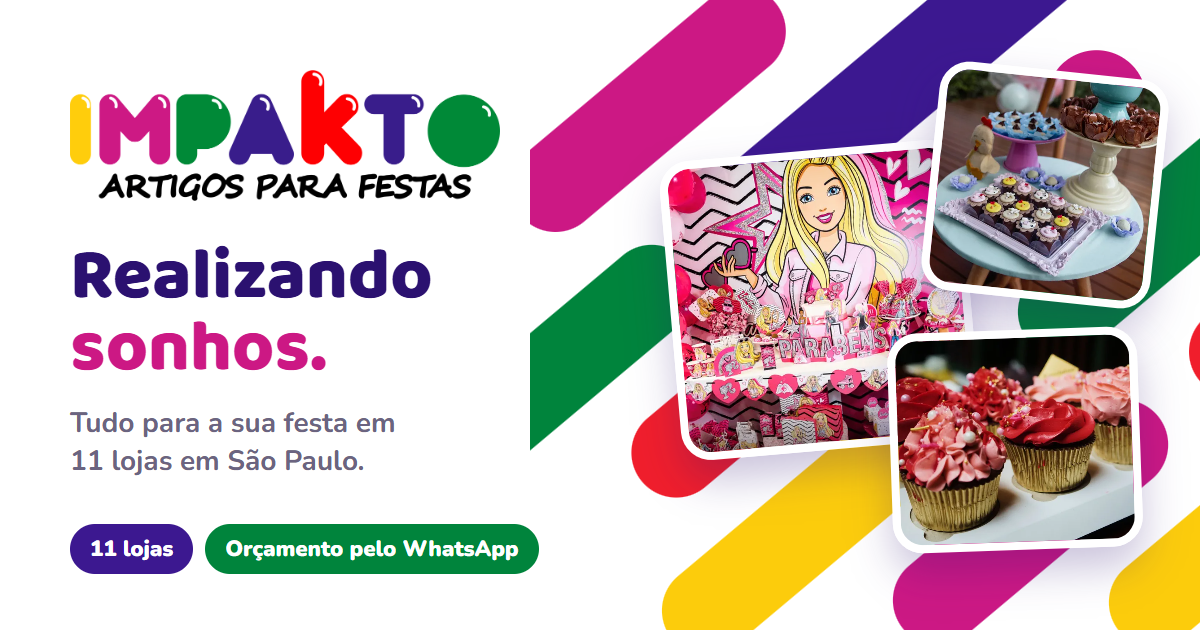
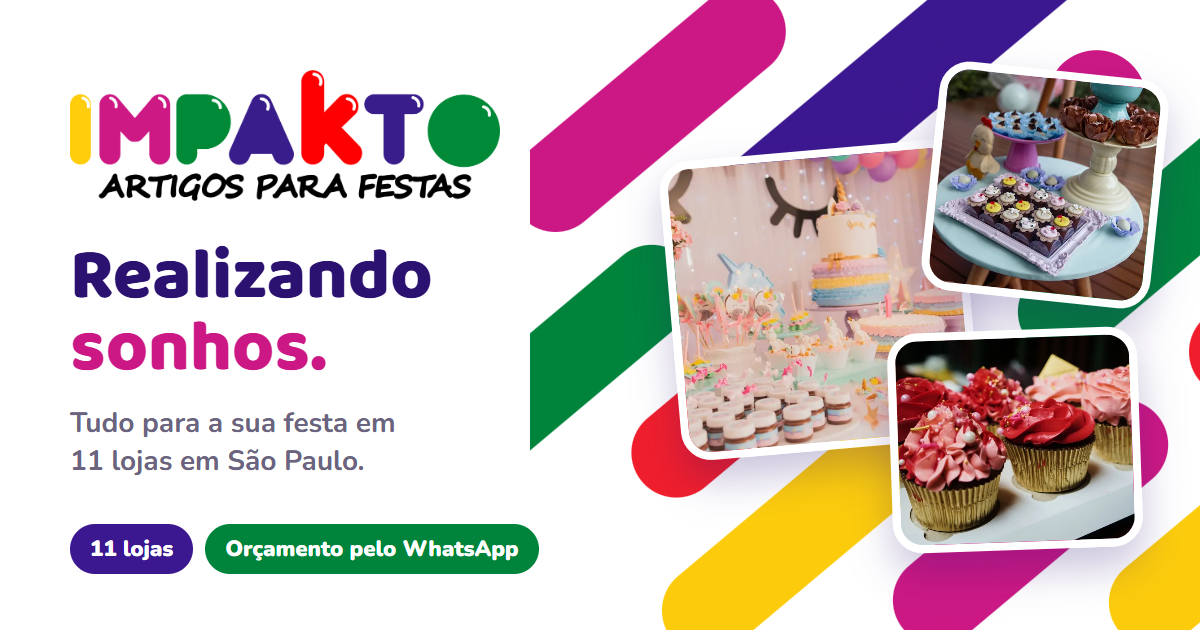
Replace the boys' and girls' theme photos taken from the old site
The Hot Wheels and Barbie tables came from the old site and show
trademarked characters. They are replaced with Pexels photos (free for
commercial use): a safari dessert table by Vidal Balielo Jr., cropped
to leave out a sign with a child's name, and a unicorn table by Silvia
Trigo, which also becomes the main hero photo.

Since the photos are no longer of parties the stores set up, the hero
description and the themes heading no longer claim they are.

Changed region(s): [[0.555, 0.2111, 0.8017, 0.7238]]

diff --git a/app/page.tsx b/app/page.tsx
@@ -21,8 +21,8 @@ const benefits: Array<{ icon: IconName; title: string; text: string }> = [
 ];
 
 const themes = [
-  { label: "Meninos", text: "Temas infantis", image: "/fotos/temas/meninos.webp", href: "/departamentos/festas-tematicas" },
-  { label: "Meninas", text: "Temas infantis", image: "/fotos/temas/meninas.webp", href: "/departamentos/festas-tematicas" },
+  { label: "Meninos", text: "Temas infantis", image: "/fotos/temas/festa-safari.webp", href: "/departamentos/festas-tematicas" },
+  { label: "Meninas", text: "Temas infantis", image: "/fotos/temas/festa-unicornio.webp", href: "/departamentos/festas-tematicas" },
   { label: "Doces", text: "Para a mesa da festa", image: "/fotos/temas/docinhos.webp", href: "/departamentos/confeitaria" },
   { label: "Confeitaria", text: "Bolos e cupcakes", image: "/fotos/temas/cupcakes.webp", href: "/departamentos/confeitaria" },
 ];
@@ -60,8 +60,8 @@ export default function Home() {
             </div>
           </div>
 
-          <div className="hero-collage" role="img" aria-label="Mesas de festa montadas com produtos Impakto: tema infantil, doces e confeitaria">
-            <img className="hero-photo hero-photo-main" src="/fotos/temas/meninas.webp" alt="" width={640} height={522} fetchPriority="high" decoding="async" />
+          <div className="hero-collage" role="img" aria-label="Mesas de festa decoradas: tema unicórnio, docinhos e cupcakes">
+            <img className="hero-photo hero-photo-main" src="/fotos/temas/festa-unicornio.webp" alt="" width={640} height={522} fetchPriority="high" decoding="async" />
             <img className="hero-photo hero-photo-top" src="/fotos/temas/docinhos.webp" alt="" width={640} height={522} decoding="async" />
             <img className="hero-photo hero-photo-bottom" src="/fotos/temas/cupcakes.webp" alt="" width={640} height={522} decoding="async" />
             <span className="hero-sticker" aria-hidden="true"><strong>5% OFF</strong>na 1ª compra</span>
@@ -85,7 +85,7 @@ export default function Home() {
 
       <section className="themes-section section" aria-labelledby="temas-title">
         <div className="container">
-          <div className="section-title"><div><span className="kicker">Inspiração</span><h2 id="temas-title">Festas que a gente monta todo dia</h2></div></div>
+          <div className="section-title"><div><span className="kicker">Inspiração</span><h2 id="temas-title">Ideias para cada tipo de festa</h2></div></div>
           <ul className="theme-grid">
             {themes.map((theme) => (
               <li key={theme.label}>

diff --git a/README.md b/README.md
@@ -20,7 +20,7 @@ Tudo vem do logo da Impakto Festas e da fachada das lojas ("Realizando sonhos"):
 - **Cores** (tokens `--c-*` em `app/globals.css`): amarelo `#FCCC0C`, magenta `#CC1884`, verde `#00843C`, roxo `#3C1890`, vermelho `#F01E2C`. O magenta é a cor de ação (botões); o roxo escuro `--brand-deep` é a base de barras e rodapé.
 - **Tipografia**: Baloo 2 (títulos, arredondada como as letras-balão do logo) e Nunito (texto), self-hosted via `@fontsource-variable`.
 - **Grafismo**: as "pílulas" diagonais com anéis da identidade, em `public/brand/pills.svg` e `public/brand/pills-stripe.svg`.
-- **Fotos** (otimizadas em `public/fotos/`): as mesas temáticas de meninos e meninas e parte das fachadas vêm de `impaktofestas.com.br`; as fachadas de Perdizes, Indianópolis e Cotia foram enviadas pela equipe. As fotos de doces (Vidal Balielo Jr.) e confeitaria (Ferawan) são do Pexels, cuja licença permite uso comercial sem crédito.
+- **Fotos** (otimizadas em `public/fotos/`): parte das fachadas vem de `impaktofestas.com.br`; as de Perdizes, Indianópolis e Cotia foram enviadas pela equipe. As fotos de temas da home são do Pexels, cuja licença permite uso comercial sem crédito: safári e docinhos (Vidal Balielo Jr.), unicórnio (Silvia Trigo) e cupcakes (Ferawan). Ao trocar uma foto, use um nome de arquivo novo: imagens ficam 1 hora no cache do navegador.
 
 ## Rodando localmente
 
